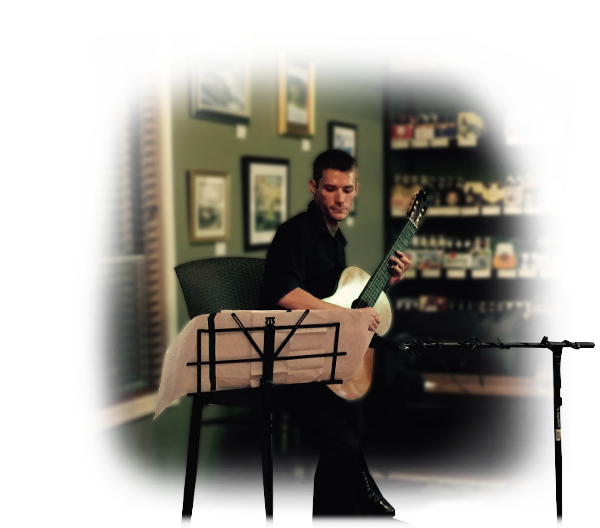
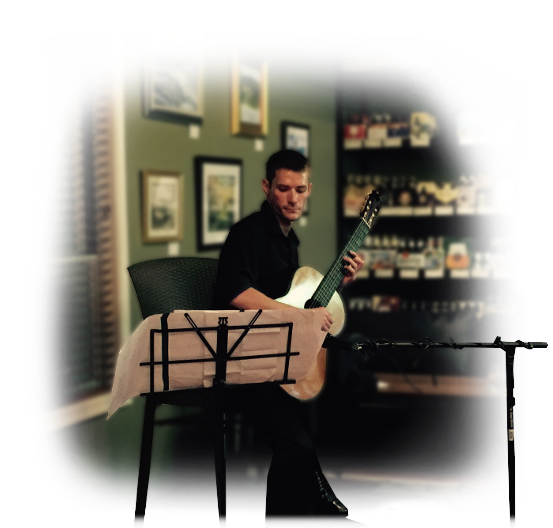
Resolution support

diff --git a/web/WebContent/style/index.css b/web/WebContent/style/index.css
@@ -1,10 +1,190 @@
+@media all and (min-width: 1600px) {
+	body {
+		font-size:	16px;
+	}
+	
+	#hero {
+		height:		779px;
+		padding-top:	220px;
+		background:	url(../img/hero-1900.png);
+	}
+	
+	#hero h1 {
+		font-size:	4em;
+	}
+	
+	#creds h3 {
+		font-size:	2.125em;
+	}
+	
+	#thumbs img {
+		width:		160px;
+		height:		90px;
+	}
+	
+	#thumbs .row {
+		margin-bottom:	40px;
+	}
+	
+	#bio-pic {
+		width:		514px;
+		height:		805px;
+	}
+	
+	#perform {
+		width:		553px;
+		height:		528px;
+	}
+	
+	#contact-pic {
+		width:		528px;
+		height:		396px;
+	}
+	
+	.content {
+		width:		1500px;
+	}
+	
+	.content h1 {
+		width:		725px;
+	}
+	
+	.left-half {
+		width:		725px;
+	}
+	
+	.right-half {
+		width:		725px;
+	}
+		
+}
+
+@media all and (min-width: 1280px) and (max-width: 1599px) {
+	body {
+		font-size:	14px;
+	}
+	
+	#hero {
+		height:		612px;
+		padding-top:	220px;
+		background:	url(../img/hero-1600.png);
+	}
+	
+	#hero h1 {
+		font-size:	3.5em;
+	}
+	
+	#creds h3 {
+		font-size:	1.75em;
+	}
+	
+	#thumbs img {
+		width:		130px;
+		height:		73px;
+	}
+	
+	#thumbs .row {
+		margin-bottom:	20px;
+	}
+		
+	#bio-pic {
+		width:		514px;
+		height:		805px;
+	}
+	
+	#perform {
+		width:		553px;
+		height:		528px;
+	}
+	
+	#contact-pic {
+		width:		528px;
+		height:		396px;
+	}
+		
+	.content {
+		width:		1240px;
+	}
+	
+	.content h1 {
+		width:		595px;
+	}
+	
+	.left-half {
+		width:		595px;
+	}
+	
+	.right-half {
+		width:		595px;
+	}
+}
+
+@media all and (min-width: 0px) and (max-width: 1279px) {
+	body {
+		font-size:	12px;
+	}
+	
+	#hero {
+		height:		546px;
+		padding-top:120px;
+		background:	url(../img/hero-1280.png);
+	}
+		
+	#hero h1 {
+		font-size:	3.5em;
+	}
+	
+	#creds h3 {
+		font-size:	1.75em;
+	}
+	
+	#thumbs img {
+		width:		95px;
+		height:		54px;
+	}
+	
+	#thumbs .row {
+		margin-bottom:	20px;
+	}
+		
+	#bio-pic {
+		width:		411px;
+		height:		644px;
+	}
+	
+	#perform {
+		width:		442px;
+		height:		422px;
+	}
+	
+	#contact-pic {
+		width:		422px;
+		height:		317px;
+	}
+	
+	.content {
+		width:		960px;
+	}
+	
+	.content h1 {
+		width:		455px;
+	}
+	
+	.left-half {
+		width:		455px;
+	}
+	
+	.right-half {
+		width:		455px;
+	}
+}
+
 body {
 	margin:			0;
 	padding:		0;
 	color:			#ffffff;
 	background:		url(../img/bg.png);
 	font-family:	Montserrat;
-	font-size:		16px;
 	font-weight:	300;
 }
 
@@ -14,7 +194,7 @@ h1 {
 
 p {
 	font-weight:	300;
-	font-size:		18px;
+	font-size:		1.125em;
 	line-height:	2em;
 }
 
@@ -97,9 +277,6 @@ nav a:hover {
 
 #hero {
 	width:			100%;
-	height:			779px;
-	padding-top:	220px;
-	background:		url(../img/hero.png);
 	background-position: center top;
 	transition:		opacity 1s;
 }
@@ -108,7 +285,6 @@ nav a:hover {
 	margin:			0px;
 	padding-bottom:	0px;
 	color:			#f1cfab;
-	font-size:		4em;
 	border:			none;
 }
 
@@ -118,7 +294,6 @@ nav a:hover {
 	margin-top:		50px;
 	color:			rgba(255, 255, 255, 0);
 	border-left:	2px solid rgba(255, 255, 255, 0);
-	font-size:		2.125em;
 	font-weight:	200;
 	transition:		margin 0.8s, color 0.8s, border-color 0.8s;
 }
@@ -181,21 +356,12 @@ nav a:hover {
 	color:			rgba(255, 255, 255, 0.75);
 }
 
-#thumbs img {
-	width:			160px;
-	height:			90px;
-}
-
 #thumbs a {
 	margin-right:	25px;
 }
 
 #thumbs a:last-child {
 	margin-right:	0px;
-}
-
-#thumbs .row {
-	margin-bottom:	40px;
 }
 
 #thumbs #external {
@@ -214,7 +380,7 @@ nav a:hover {
 }
 
 #contact-details h3 {
-	margin-bottom:	20px;
+	margin-bottom:	1.25em;
 }
 
 #addy {
@@ -222,12 +388,10 @@ nav a:hover {
 }
 
 .content {
-	width:			1500px;
 	margin:			0 auto;
 }
 
 .content h1 {
-	width:			750px;
 	margin-top:		50px;
 	padding:		50px 0px 10px 0px;
 	border-bottom:	1px solid #f1cfab;
@@ -249,7 +413,6 @@ nav a:hover {
 
 .left-half {
 	float:			left;
-	width:			725px;
 	min-height:		300px;
 	margin-right:	25px;
 	text-align:		left;
@@ -257,7 +420,6 @@ nav a:hover {
 
 .right-half {
 	float:			left;
-	width:			725px;
 	margin-left:	25px;
 	text-align:		left;
 }

diff --git a/web/WebContent/script/index.js b/web/WebContent/script/index.js
@@ -137,7 +137,17 @@ function loadYoutube() {
 }
 
 function showVideo(id) {
-	$("#featured").html("<iframe id='ytplayer' type='text/html' width='636' height='360' src='https://www.youtube.com/embed/" + id + "?fs=1&rel=0&showinfo=1&autohide=1&color=white' frameborder='0' allowfullscreen>");
+	var videoHeight;
+	
+	if($(window).width() >= 1570) {
+		videoHeight = 40 * (thumbRows - 1) + 90 * thumbRows; 
+	} else if($(window).width() >= 1250) {
+		videoHeight = 20 * (thumbRows - 1) + 73 * thumbRows;
+	} else {
+		videoHeight = 20 * (thumbRows - 1) + 54 * thumbRows;
+	}
+	
+	$("#featured").html("<iframe id='ytplayer' type='text/html' width='" + (1.7666 * videoHeight) + "' height='" + videoHeight + "' src='https://www.youtube.com/embed/" + id + "?fs=1&rel=0&showinfo=1&autohide=1&color=white' frameborder='0' allowfullscreen>");
 	$("#ytplayer").iframeTracker({
 		blurCallback: function() {
 			pause();

diff --git a/web/WebContent/index.html b/web/WebContent/index.html
@@ -107,6 +107,7 @@
 				</div>
 				<div id="contact-details" class="right-half">
 					<h1 id="contact">Contact</h1>
+					<p>Whether you're interested in lessons, booking an event, or looking to collaborate, drop me a line! 
 					<div class="contact">
 						<i class='fa fa-twitter'></i>
 						<h3>Twitter</h3>
